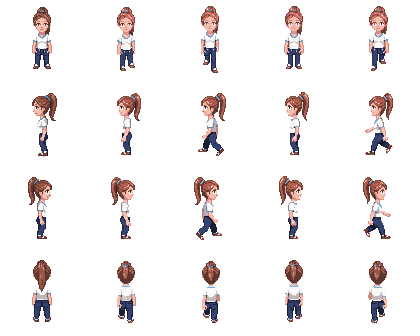
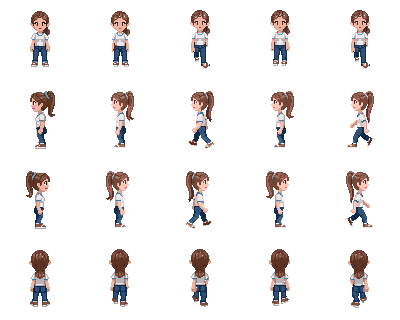
Гра 32×32: Лєна-підліток перемальована під малу й дорослу
Кругле обличчя, великі карі очі, світло-каштанове волосся з низьким
хвостом, зріст посередині між малою й дорослою. Хід «униз» зібрано з
кадрів 0-1-2-1 (PixelLab знову намалював останній кадр спиною), хід
«угору» — у skeleton-v3, щоб хвіст не зникав. Перевірка аркушів тепер
ловить і зниклий зі спини хвіст.

Claude-Session: https://claude.ai/code/session_01ESA7YasmJgt7vZNVKYPdPS

diff --git a/src/features/game/life/render/peopleHd.ts b/src/features/game/life/render/peopleHd.ts
@@ -47,12 +47,12 @@ export const KID_DRESS: readonly Garment[] = [
   { part: 'bottom', band: [0.62, 0.84], tones: KID_PINK },
 ];
 export const TEEN_CLOTHES: readonly Garment[] = [
-  // Біла футболка: світло й темна обвідка майже без барви, тінь — сіро-бузкова.
-  { part: 'top', band: [0.36, 0.68], tones: [{ maxS: 0.1, minV: 0.4 }, { hue: [0.55, 0.8], maxS: 0.3, minV: 0.45 }] },
-  // Блакитні комір і манжети з їхньою тінню; пояс джинсів — нижче смуги.
+  // Біла футболка: світло й сірі тіні майже без барви, тінь збоку — сіро-бузкова.
+  { part: 'top', band: [0.38, 0.65], tones: [{ maxS: 0.1, minV: 0.45 }, { hue: [0.55, 0.8], maxS: 0.3, minV: 0.45 }] },
+  // Блакитні комір і манжети з їхньою тінню; гумка на хвості — вище смуги.
   { part: 'accent', band: [0.36, 0.56], tones: [{ hue: [0.5, 0.64], minS: 0.3, minV: 0.4 }] },
-  // Сині джинси з поясом і темною обвідкою.
-  { part: 'bottom', band: [0.56, 0.97], tones: [{ hue: [0.58, 0.78], minS: 0.3, maxV: 0.65 }] },
+  // Сині джинси з поясом, світлішим підворотом і темною обвідкою; кросівки — нижче.
+  { part: 'bottom', band: [0.56, 0.93], tones: [{ hue: [0.55, 0.66], minS: 0.3, maxV: 0.75 }] },
 ];
 // Блакитна сукня з найсвітлішими, майже білими відблисками (у кадрах збоку
 // ними вкрита вся спина); чисто білі бретельки, поділ і туфлі — без барви,
@@ -66,8 +66,10 @@ export const ADULT_DRESS: readonly Garment[] = [
 const SHEETS: HdSheet[] = [
   // Персонаж PixelLab «Лєна мала HD (48)» (a046bd5b-…).
   { url: lenaKidUrl, cell: 68, frames: 4, footX: 34, footY: 56, outfit: { base: LENA_KID, garments: KID_DRESS }, match: (l) => !!l.kid && l.bow === LENA_KID.bow && l.hairStyle === LENA_KID.hairStyle },
-  // Персонаж PixelLab «Лєна підліток HD» (e7e9f230-…), власник 2026-10-06: «Лєна підліток».
-  { url: lenaTeenUrl, cell: 84, frames: 4, footX: 42, footY: 70, outfit: { base: LENA_TEEN, garments: TEEN_CLOTHES }, match: (l) => isLenaTeen(l) },
+  // Персонаж PixelLab «Лєна підліток HD (2)» (10065427-…), власник 2026-10-11:
+  // «дуже різниться між дитиною і дорослою, перемалюй» — кругле обличчя й
+  // великі очі, як у малої й дорослої, світло-каштанове волосся, зріст між ними.
+  { url: lenaTeenUrl, cell: 80, frames: 4, footX: 40, footY: 67, outfit: { base: LENA_TEEN, garments: TEEN_CLOTHES }, match: (l) => isLenaTeen(l) },
   // Персонаж PixelLab «Лєна доросла HD» (2ddf3605-…), власник 2026-10-06: «Доросла Лєна».
   { url: lenaAdultUrl, cell: 92, frames: 4, footX: 46, footY: 76, outfit: { base: LENA_ADULT, garments: ADULT_DRESS }, match: (l) => isLenaAdult(l) },
   // Персонаж PixelLab «Мама Лєни HD» (0a699035-…).

diff --git a/scripts/pixellab/build_sheet.py b/scripts/pixellab/build_sheet.py
@@ -11,7 +11,18 @@
 
 spec.json: {"cell": 92, "rotations": {"south": url, ...},
             "walk": {"south": [url, ...], "east": [...], ...},
-            "eyes": {"band": [0.17, 0.31], "color": "#5a3a26"}}
+            "eyes": {"band": [0.17, 0.31], "color": "#5a3a26"},
+            "pick": {"south": [0, 1, 2, 1]}}
+
+"pick" необов'язкове: які кадри ходи брати для напряму. PixelLab іноді
+малює кадр ходи не тим боком — у підлітка двічі останній кадр «униз»
+вийшов спиною. Тоді цикл 0-1-2-1 (середній крок двічі) — звичний для
+піксельних ігор і не блимає потилицею.
+
+Кадри ходи бувають на більшому полотні, ніж повороти (`skeleton-v3`
+кладе людину на 96×96 замість 80×80). Такі кадри стають у клітинку за
+центром полотна, а по висоті — так, щоб стопи першого кадру стояли там
+само, де в позі «стоїть» того напряму; погойдування ходи лишається.
 
 "eyes" необов'язкове: PixelLab малює блакитні очі навіть тоді, коли просиш
 карі. У смузі обличчя (частки висоти силуету кадру, відлік від маківки)
@@ -57,12 +68,37 @@ def recolor_eyes(img: Image.Image, band: list, color: str) -> Image.Image:
     return out
 
 
+def bottom_of(img: Image.Image) -> int:
+    """Нижній непрозорий рядок — стопи."""
+    box = img.getchannel('A').getbbox()
+    if not box:
+        raise ValueError('порожній кадр')
+    return box[3]
+
+
+def fit(frames: list, idle: Image.Image, cell: int) -> list:
+    """Кадри на полотні іншого розміру — у клітинку `cell`, стопи до пози «стоїть»."""
+    if all(f.size == (cell, cell) for f in frames):
+        return frames
+    dy = bottom_of(frames[0]) - bottom_of(idle)
+    out = []
+    for f in frames:
+        dx = (f.width - cell) // 2
+        fitted = Image.new('RGBA', (cell, cell), (0, 0, 0, 0))
+        fitted.paste(f, (-dx, -dy))
+        out.append(fitted)
+    return out
+
+
 def main() -> None:
     spec = json.load(open(sys.argv[1]))
     out = sys.argv[2]
     cell = spec['cell']
     rot = {k: fetch(v) for k, v in spec['rotations'].items()}
     walk = {k: [fetch(u) for u in v] for k, v in spec.get('walk', {}).items()}
+    walk = {d: fit(v, rot[d], cell) for d, v in walk.items()}
+    for d, order in spec.get('pick', {}).items():
+        walk[d] = [walk[d][i] for i in order]
     eyes = spec.get('eyes')
     if eyes:
         # Зі спини очей не видно — «угору» не чіпаємо.

diff --git a/docs/MODULE_STATUS.md b/docs/MODULE_STATUS.md
@@ -45,7 +45,7 @@
 | Вотчліст | `/media` | ✓ | — | — | 1 | Фаза 11. Свайп: вердикт заливає картку, підпис у центрі, фільтр жанрів із TMDB (ADR-0043); модалка деталей перебрана — тіло гортається окремо, відгук лишають рядком, а не 17-піксельним олівцем (ADR-0050) |
 | Кулінарія | `/culinary` | ✓ | — | — | 0 | Фаза 12. Модалка страви перебрана: назва інгредієнта на власному рядку, кнопки «прибрати» повернуті в рядок із кута сторінки (ADR-0050) |
 | Куди піти | `/whereto` | ✓ | — | — | 0 | Фаза 12. Вибір міста питає одне поле; область приїжджає з геокодера OSM (ADR-0050) |
-| Гра | `/game` | — | ✓ | — | 3 | **«Дєвочка в городі» (ADR-0239, раніше «Життя Лєни»):** симулятор життя — «тиждень = рік», садочок/школа/ВДПУ/робота за вибором, 7 міст із дорогами й детальною мапою Поділля, крамниці, альбом, історія з Дімою (ходить із Лєною лише на її прохання, приходить на дзвінок), робота онлайн, три свої справи, нерухомість, облаштування дому, стартова садиба в Жилинцях за планом власника (подвір'я за планом власника: туалет, хліви, курник із вигулом, січкарня, город, сад із літнім душем, квітники, криниця, літня кухня з прибудовою-входом, майстерня, погріб, хата з котельнею, кімнати хати за розмірами власника, літня кухня з глиняною піччю, куди можна зайти, погріб зі стелажем закруток і засіками за перегородками, мама, що за розкладом порається на городі, в саду, біля курей і в кухні, коргі Бася, яку можна погладити й нагодувати; тестова деталізація 32×32 садиби з людьми з PixelLab (Лєна в усіх трьох віках, мама, Діма, Бася; куплений одяг перефарбовує аркуш — видно колір речі, не крій) — `?art=hd` чи кнопка «HD»; суцільна Г-подібна хата зі входом збоку: веранда, кухня, коридорчик, кімнати братів, мами й Лєни впритул), знайомства з десятьма мешканцями, заняття в кожному місті; окрема сторінка `game.html`, лише пара 1 (ADR-0236); власна мова інтерфейсу (пергамент, «три чверті» як у Stardew), сейв у `localStorage` |
+| Гра | `/game` | — | ✓ | — | 3 | **«Дєвочка в городі» (ADR-0239, раніше «Життя Лєни»):** симулятор життя — «тиждень = рік», садочок/школа/ВДПУ/робота за вибором, 7 міст із дорогами й детальною мапою Поділля, крамниці, альбом, історія з Дімою (ходить із Лєною лише на її прохання, приходить на дзвінок), робота онлайн, три свої справи, нерухомість, облаштування дому, стартова садиба в Жилинцях за планом власника (подвір'я за планом власника: туалет, хліви, курник із вигулом, січкарня, город, сад із літнім душем, квітники, криниця, літня кухня з прибудовою-входом, майстерня, погріб, хата з котельнею, кімнати хати за розмірами власника, літня кухня з глиняною піччю, куди можна зайти, погріб зі стелажем закруток і засіками за перегородками, мама, що за розкладом порається на городі, в саду, біля курей і в кухні, коргі Бася, яку можна погладити й нагодувати; тестова деталізація 32×32 садиби з людьми з PixelLab (Лєна в усіх трьох віках — підліток перемальований під малу й дорослу, мама, Діма, Бася; куплений одяг перефарбовує аркуш — видно колір речі, не крій) — `?art=hd` чи кнопка «HD»; суцільна Г-подібна хата зі входом збоку: веранда, кухня, коридорчик, кімнати братів, мами й Лєни впритул), знайомства з десятьма мешканцями, заняття в кожному місті; окрема сторінка `game.html`, лише пара 1 (ADR-0236); власна мова інтерфейсу (пергамент, «три чверті» як у Stardew), сейв у `localStorage` |
 
 «Налаштування» й «Полароїда» в таблиці немає: обидва — аркуші поверх
 сторінки, а не маршрути (полароїд відкривається дією заголовка в

diff --git a/CLAUDE.md b/CLAUDE.md
@@ -82,7 +82,7 @@ A task is not complete until the relevant checklist passes and the implementatio
 
 **Живі.** Мама — розклад `sim/mom.ts`, рух `updateMom` (ліжко в хаті / подвір'я / кухня). Бася — `sim/dog.ts` (5 с бігає, 3 с за Лєною, 30% перечепитись, 1 с лежить), спрайт `render/assets/basia.png` із PixelLab (персонаж «Бася (мала)»). Випадковість у грі — лише `rngFor(seed, 'причина', …)`.
 
-**Дві деталізації.** 16×16 (за замовчуванням) і тестова 32×32 (власник 2026-10-06): та сама графіка зі щільністю 2 (`pixel.ts`: `canvasAt`, `densityOf`, `dot`), деталі — у `tilesHd`/`buildingsHd`/`propsHd`, люди — аркуші PixelLab (`assets/hd/`, `peopleHd.ts`, збирає `scripts/pixellab/build_sheet.py`). Поки лише садиба в Жилинцях, вмикається `?art=hd` або кнопкою «HD» (`render/art.ts`). Масштаб сцени в 32×32 — парний. PixelLab на пробному тарифі робить одну генерацію за раз: напрямки ходи — окремими викликами в одну `animation_group_id`; «ліворуч» — дзеркало «праворуч». У Лєни очі карі, а PixelLab малює блакитні — для її аркушів у специфікації `build_sheet.py` є крок `eyes` (смуга обличчя → карі). Куплений одяг у 32×32 — перефарбування аркуша (`outfitHd.ts`; де лежить одяг — таблиці в `peopleHd.ts`, смуги від стоп). Нові чи перегенеровані аркуші перевіряє `scripts/pixellab/sheets.test.mjs` (кадри «униз» обличчям, карі очі, одяг у кожному кадрі) — PixelLab уже раз намалював кадр ходи спиною. 2D-стиль власник відхилив — не повертай. У живому кадрі: `c.ui={...c.ui,art:'hd'}`.
+**Дві деталізації.** 16×16 (за замовчуванням) і тестова 32×32 (власник 2026-10-06): та сама графіка зі щільністю 2 (`pixel.ts`: `canvasAt`, `densityOf`, `dot`), деталі — у `tilesHd`/`buildingsHd`/`propsHd`, люди — аркуші PixelLab (`assets/hd/`, `peopleHd.ts`, збирає `scripts/pixellab/build_sheet.py`). Поки лише садиба в Жилинцях, вмикається `?art=hd` або кнопкою «HD» (`render/art.ts`). Масштаб сцени в 32×32 — парний. PixelLab на пробному тарифі робить одну генерацію за раз: напрямки ходи — окремими викликами в одну `animation_group_id`; «ліворуч» — дзеркало «праворуч». У Лєни очі карі, а PixelLab малює блакитні — для її аркушів у специфікації `build_sheet.py` є крок `eyes` (смуга обличчя → карі). Куплений одяг у 32×32 — перефарбування аркуша (`outfitHd.ts`; де лежить одяг — таблиці в `peopleHd.ts`, смуги від стоп). Нові чи перегенеровані аркуші перевіряє `scripts/pixellab/sheets.test.mjs` (кадри «униз» обличчям, карі очі, волосся зі спини, одяг у кожному кадрі): PixelLab двічі намалював кадр ходи «униз» спиною (`pick` у специфікації `build_sheet.py` бере кадри 0-1-2-1), а хід, що малюється кадр за кадром, губить хвіст — тоді режим `skeleton-v3` (рухає готовий малюнок, коштує ~10 генерацій). Ставлячи нового персонажа Лєни, порівнюй його з рештою віків поруч у справжньому масштабі. 2D-стиль власник відхилив — не повертай. У живому кадрі: `c.ui={...c.ui,art:'hd'}`.
 
 **Малювання.** `render/pixel.ts`: тіні зсуваються по тону (`shade`), обвідка з рампи (`outline`), близькі кольори зливаються (`mergeNearDuplicates`). Дахи прив'язані до світу, щоб будівля з частин не виглядала порізаною. Референси власника (зокрема тайлсети Stardew) — лише для прийомів; пікселі не копіюй.
 

diff --git a/docs/05_ADR/ADR-0239-lena-life-game.md b/docs/05_ADR/ADR-0239-lena-life-game.md
@@ -862,3 +862,39 @@ PixelLab (10–25 генерацій за кожен) — це рішення в
 
 **Ще не зроблено:**
 - крій речей у 32×32 (див. вище) — лише колір.
+
+**Поправка (2026-10-11), Лєна-підліток у 32×32 перемальована.** Власник:
+«Мені не подобається Лєна підліток, вона дуже різниться між дитиною і
+дорослою, перемалюй». Поставлені поруч, три аркуші це
+підтвердили: підліток був зростом 63 пікселі, майже як доросла (64), з
+мідно-рудим волоссям, вужчим і старшим обличчям та дрібними очима, а мала
+й доросла — з круглим обличчям, великими очима й світло-каштановим
+волоссям.
+
+**Новий персонаж PixelLab «Лєна підліток HD (2)»** (10065427-…, size 56):
+кругле обличчя, великі карі очі, світло-каштанове волосся з низьким
+хвостом і блакитною гумкою, зріст 56 — посередині між малою (48) і
+дорослою (64). Вбрання те саме, що в 16×16 (біла футболка з блакитним
+оздобленням, сині джинси), тож `LENA_TEEN`, сейв і перевдягання не
+змінюються; таблицю одягу `TEEN_CLOTHES` заміряно наново. Старий персонаж
+(e7e9f230-…) лишився в PixelLab, у грі не вживається.
+
+Дві вади PixelLab, обидві спіймані перевіркою аркушів:
+- **останній кадр ходи «униз» знову спиною.** Генерацію на нього не
+  витрачено: `build_sheet.py` уміє `pick` — хід «униз» зібрано з кадрів
+  0-1-2-1 (середній крок двічі; звичний для піксельних ігор цикл);
+- **у ході «угору» хвіст був лише в одному кадрі з чотирьох** і блимав би
+  кожен крок. Цей напрям узято з режиму `skeleton-v3`, що рухає готовий
+  малюнок по скелету, а не малює кожен кадр заново, — хвіст на місці в
+  усіх кадрах. Він кладе людину на більше полотно (96×96), тож
+  `build_sheet.py` ставить такі кадри в клітинку за центром, а по висоті —
+  стопами першого кадру до пози «стоїть».
+
+Ціна: 14 генерацій — персонаж 1, хід «униз» і «праворуч» по 1, хід
+«угору» в `skeleton-v3` близько 10 (опис PixelLab обіцяв 2–4; далі
+рахувати з цим). Основний запас пробного тарифу вичерпано, лишаються
+денні бонусні (до 20, +5 щоночі).
+
+**Тести:** `scripts/pixellab/sheets.test.mjs` тепер ще й перевіряє, що в
+кожному кадрі ходи «угору» Лєни видно волосся на потилиці — на кадрах без
+хвоста перевірка падає (30 пікселів волосся проти 112 у позі «стоїть»).
